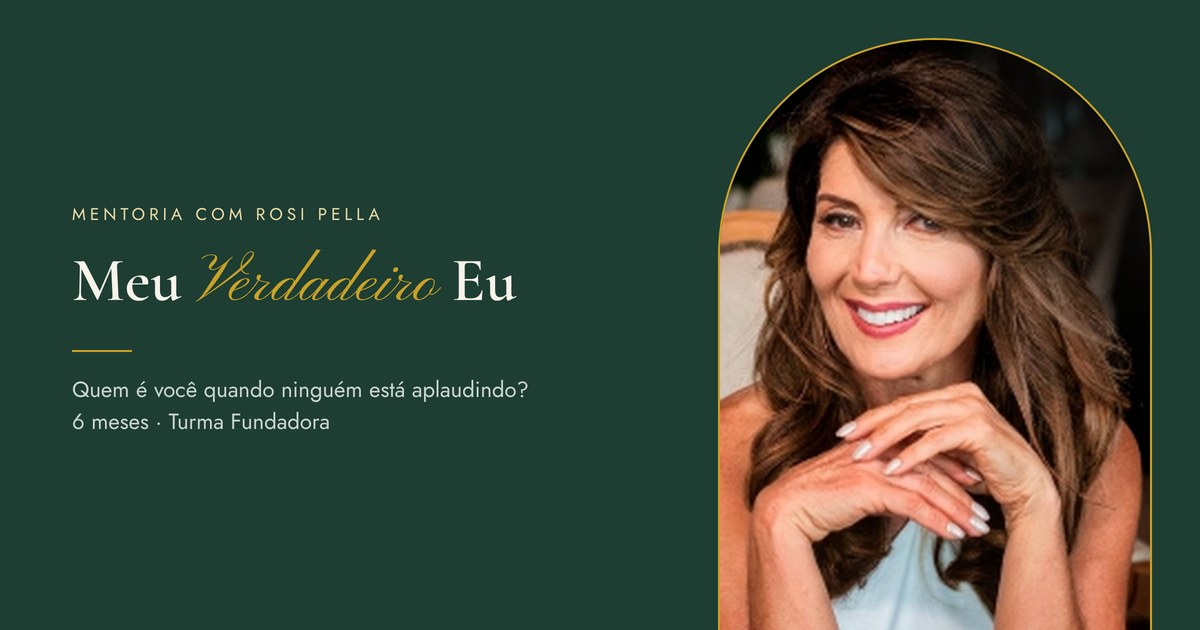
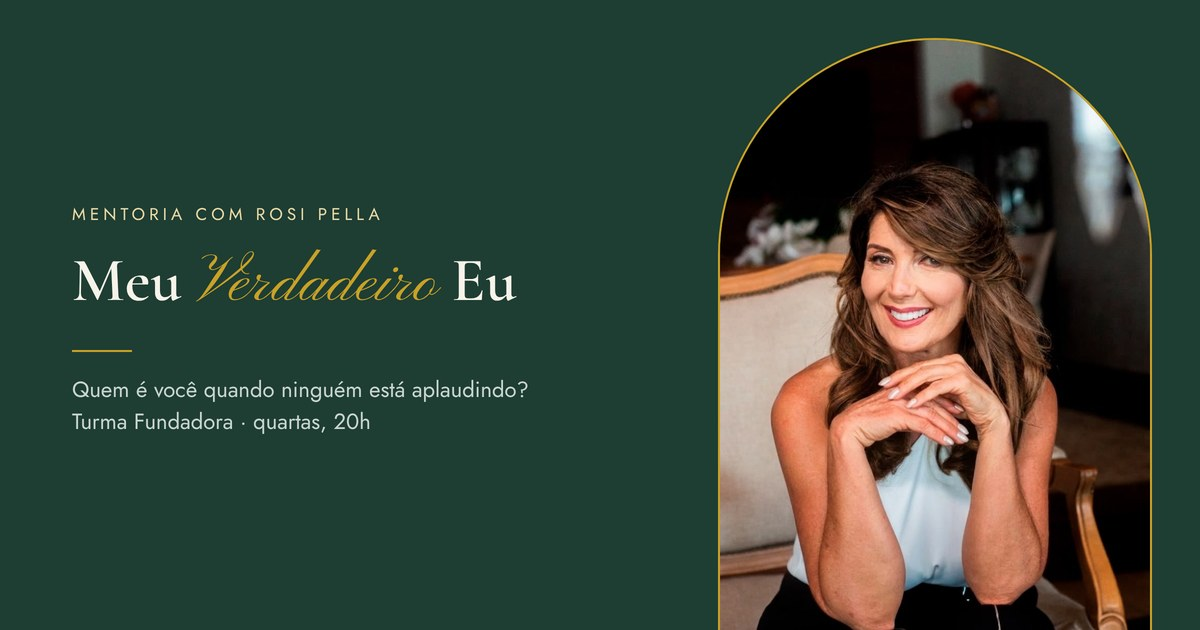
LP Meu Verdadeiro Eu: fotos oficiais da Rosi, encontros às quartas 20h, aulas gravadas no ambiente da comunidade, nova imagem de compartilhamento
Claude-Session: https://claude.ai/code/session_015UG25kv16XPhhe76kS6jL5

Changed region(s): [[0.5858, 0.0603, 0.9558, 1.0], [0.0617, 0.6333, 0.3083, 0.6937]]

diff --git a/meu-verdadeiro-eu/index.html b/meu-verdadeiro-eu/index.html
@@ -196,11 +196,11 @@ footer b{color:var(--perola)}
     <div class="eb">Mentoria em grupo com Rosi Pella · Turma Fundadora</div>
     <h1 style="margin-top:14px">Você já conquistou muita coisa. Mas quem é você quando ninguém está <span class="script">aplaudindo</span>?</h1>
     <p class="lead">Meu Verdadeiro Eu é uma mentoria de 6 meses para mulheres que já constroem e querem parar de viver no automático. Você termina com o seu Manifesto Pessoal: quem você é, no que acredita e quem está decidindo se tornar.</p>
-    <div class="fatos"><span>Encontros ao vivo a cada 15 dias</span><span>Início em janeiro de 2027</span><span>Vagas limitadas</span></div>
+    <div class="fatos"><span>Quartas, 20h, a cada 15 dias</span><span>Início em janeiro de 2027</span><span>Vagas limitadas</span></div>
     <a class="btn" href="#lista" data-ev="hero">Quero entrar na lista de espera</a>
     <div class="apoio">Quem entra na lista tem prioridade na abertura das inscrições.</div>
   </div>
-  <div class="arco"><img src="/meu-verdadeiro-eu/rosi.jpg" alt="Rosi Pella"></div>
+  <div class="arco"><img src="/meu-verdadeiro-eu/rosi-hero.jpg" alt="Rosi Pella" width="843" height="1264"></div>
 </div></section>
 
 <section class="dores"><div class="wrap">
@@ -269,9 +269,9 @@ footer b{color:var(--perola)}
   <div class="eb">Como funciona</div>
   <h2>Um ritmo que cabe na sua <span class="script">vida</span>.</h2>
   <div class="passos">
-    <div class="passo"><div class="n">1</div><h3>Encontro ao vivo</h3><p>A cada 15 dias, cerca de 1h30, sempre no mesmo dia e horário.</p></div>
+    <div class="passo"><div class="n">1</div><h3>Encontro ao vivo</h3><p>Às quartas, às 20h (horário de Brasília), a cada 15 dias, com cerca de 1h30.</p></div>
     <div class="passo"><div class="n">2</div><h3>Desafio</h3><p>Uma ação concreta para levar o encontro para a sua vida até o próximo.</p></div>
-    <div class="passo"><div class="n">3</div><h3>Aulas gravadas</h3><p>Tudo fica na plataforma, para rever ou recuperar um encontro.</p></div>
+    <div class="passo"><div class="n">3</div><h3>Aulas gravadas</h3><p>Todas as aulas ficam no ambiente da comunidade, para rever ou recuperar um encontro.</p></div>
     <div class="passo"><div class="n">4</div><h3>Grupo da turma</h3><p>Um espaço para registrar o caminho e trocar com as colegas.</p></div>
     <div class="passo"><div class="n">5</div><h3>Partilha</h3><p>Ao fim de cada fase, um encontro para dúvidas e histórias.</p></div>
   </div>
@@ -313,7 +313,7 @@ footer b{color:var(--perola)}
 </div></section>
 
 <section class="rosi" style="background:var(--branco);border-top:1px solid var(--linha);border-bottom:1px solid var(--linha)"><div class="wide">
-  <img src="/meu-verdadeiro-eu/rosi.jpg" alt="Rosi Pella">
+  <img src="/meu-verdadeiro-eu/rosi-casa.jpg" alt="Rosi Pella na Casa Dourada" loading="lazy">
   <div>
     <div class="eb">Quem conduz</div>
     <h2>Rosi <span class="script">Pella</span></h2>
@@ -328,7 +328,7 @@ footer b{color:var(--perola)}
   <div class="oferta">
     <ul>
       <li>15 encontros ao vivo em 6 meses</li>
-      <li>Desafio a cada encontro e aulas gravadas</li>
+      <li>Encontros às quartas, 20h, com aulas gravadas no ambiente da comunidade</li>
       <li>Grupo da turma e encontros de partilha</li>
       <li>As 4 entregas, até o seu Manifesto Pessoal</li>
       <li class="bonus"><b>Só para fundadoras:</b> encontro presencial na Casa Dourada para a entrega do Manifesto</li>
@@ -366,8 +366,8 @@ footer b{color:var(--perola)}
   <h2 style="margin-bottom:16px">Perguntas <span class="script">frequentes</span></h2>
   <details><summary>É terapia?</summary><p>Não. É uma mentoria de consciência e escolhas. Não substitui acompanhamento psicológico ou médico.</p></details>
   <details><summary>Já faço terapia. Faz sentido?</summary><p>Sim. Uma não exclui a outra, e podem caminhar juntas.</p></details>
-  <details><summary>E se eu perder um encontro?</summary><p>Todas as aulas ficam gravadas na plataforma.</p></details>
-  <details><summary>Quanto tempo vou precisar?</summary><p>Um encontro ao vivo a cada 15 dias, de cerca de 1h30, e o desafio entre um encontro e outro.</p></details>
+  <details><summary>E se eu perder um encontro?</summary><p>Todas as aulas são gravadas e ficam disponíveis no ambiente da comunidade.</p></details>
+  <details><summary>Quanto tempo vou precisar?</summary><p>Um encontro ao vivo a cada 15 dias, às quartas, às 20h (horário de Brasília), com cerca de 1h30, e o desafio entre um encontro e outro.</p></details>
   <details><summary>A mentoria é religiosa?</summary><p>A fé faz parte de quem a Rosi é e aparece com naturalidade. Ninguém precisa seguir uma religião para participar.</p></details>
   <details><summary>O que é a lista de espera?</summary><p>É um cadastro sem custo e sem compromisso. Quem está na lista recebe o convite primeiro quando as inscrições da Turma Fundadora abrirem, e pode tirar dúvidas direto com a Lu, assessora da Rosi.</p></details>
   <details><summary>Posso entrar depois que a turma começar?</summary><p>Não. As inscrições da Turma Fundadora fecham antes do primeiro encontro, em janeiro de 2027.</p></details>
@@ -381,7 +381,7 @@ footer b{color:var(--perola)}
 
 <div class="fixo" id="fixo"><span>Turma Fundadora<i class="so-desk"> · R$ 997</i> · <b>lista de espera aberta</b></span><a class="btn" href="#lista" data-ev="fixo">Entrar na lista</a></div>
 
-<footer><div class="wide"><b>Meu Verdadeiro Eu</b> · mentoria com Rosi Pella · @rosipella</div></footer>
+<footer><div class="wide"><b>Meu Verdadeiro Eu</b> · mentoria com Rosi Pella · @rosipella<br><span style="font-size:12px">Fotos: Andressa Reis Fotografia</span></div></footer>
 
 <script>
 var WA_LU='5527999460408';
